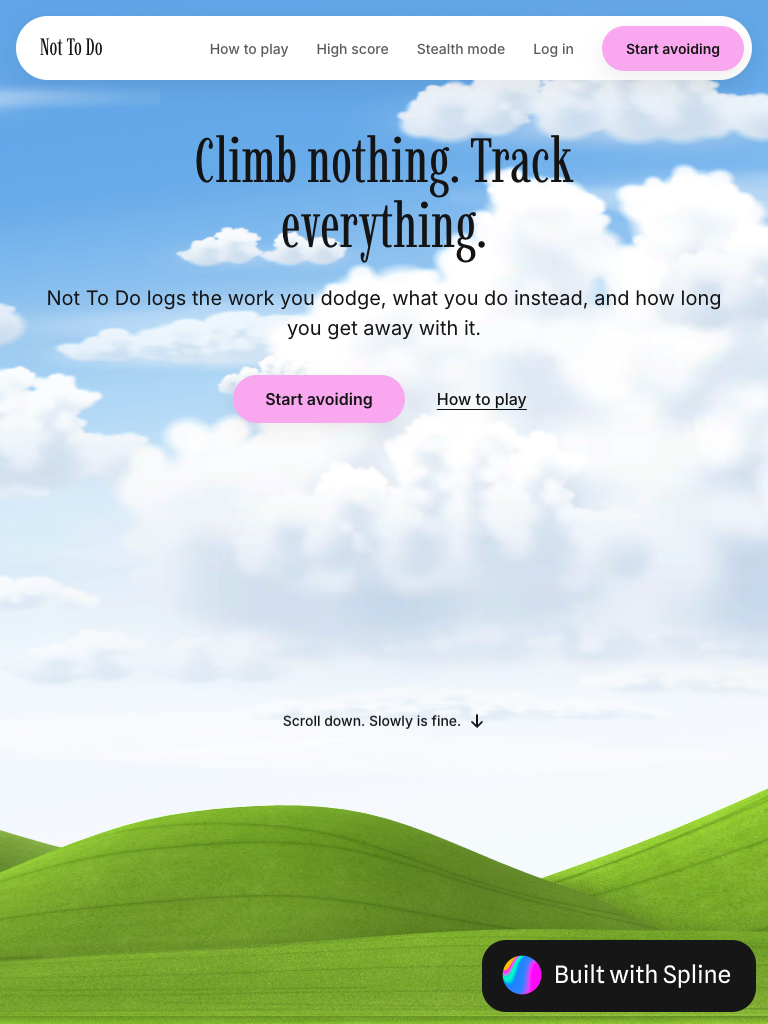
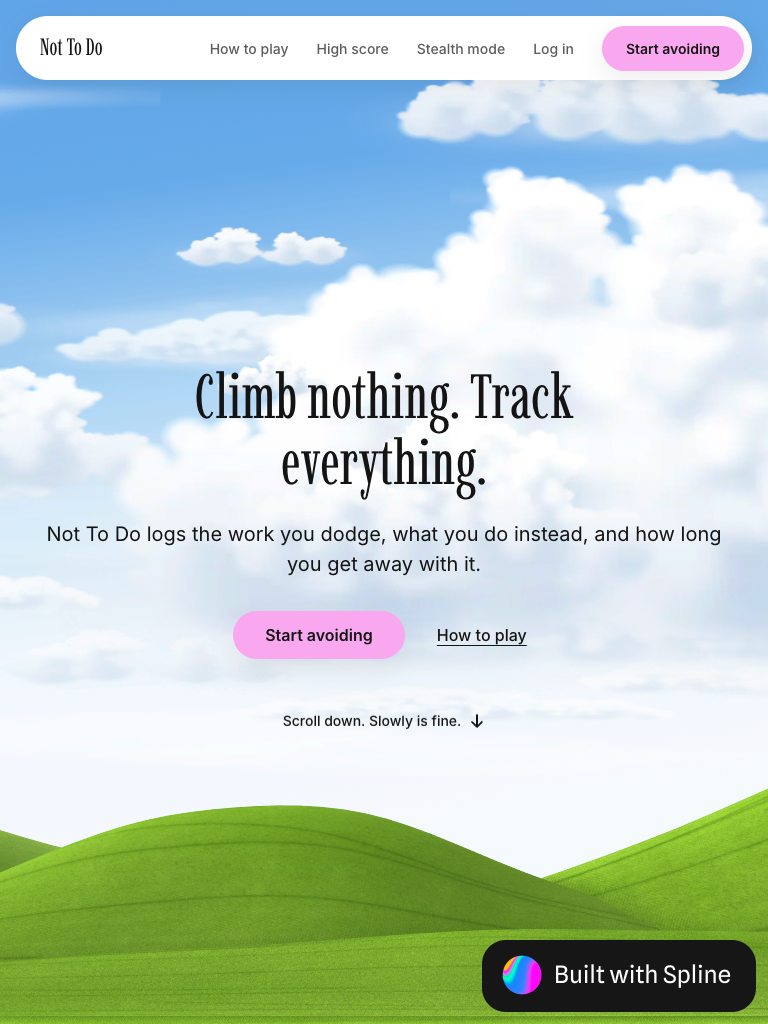
Hero centered, scroll cue 80px from bottom, links to unbuilt sections not clickable

diff --git a/index.html b/index.html
@@ -28,23 +28,25 @@
 
     <a class="skip-intro" href="#hero">Skip intro</a>
 
+    <!-- Links to sections that are not built yet have data-href instead of href, so they are not clickable.
+         When a section is built, rename data-href back to href. -->
     <!-- Floating header. Hidden (and inert) during the intro: intro.js shows it when the hero is reached. Without JS it is a plain visible bar. -->
     <header class="nav" id="nav">
       <nav class="nav__pill" aria-label="Main">
         <a class="nav__wordmark" href="#hero">Not To Do</a>
         <ul class="nav__links" role="list">
-          <li><a class="nav__link" href="#how-to-play">How to play</a></li>
-          <li><a class="nav__link" href="#high-score">High score</a></li>
-          <li><a class="nav__link" href="#stealth">Stealth mode</a></li>
+          <li><a class="nav__link" data-href="#how-to-play">How to play</a></li>
+          <li><a class="nav__link" data-href="#high-score">High score</a></li>
+          <li><a class="nav__link" data-href="#stealth">Stealth mode</a></li>
           <li><a class="nav__link" href="#login">Log in</a></li>
         </ul>
         <a class="button nav__cta" href="#signup">Start avoiding</a>
         <button class="nav__menu-button" type="button" aria-expanded="false" aria-controls="nav-panel">Menu</button>
         <div class="nav__panel" id="nav-panel" hidden>
           <ul class="nav__panel-links" role="list">
-            <li><a class="nav__link" href="#how-to-play">How to play</a></li>
-            <li><a class="nav__link" href="#high-score">High score</a></li>
-            <li><a class="nav__link" href="#stealth">Stealth mode</a></li>
+            <li><a class="nav__link" data-href="#how-to-play">How to play</a></li>
+            <li><a class="nav__link" data-href="#high-score">High score</a></li>
+            <li><a class="nav__link" data-href="#stealth">Stealth mode</a></li>
             <li><a class="nav__link" href="#login">Log in</a></li>
           </ul>
         </div>
@@ -86,10 +88,10 @@
           <p class="hero__sub hero__item">Not To Do logs the work you dodge, what you do instead, and how long you get away with it.</p>
           <div class="hero__actions hero__item">
             <a class="button" href="#signup">Start avoiding</a>
-            <a class="text-link" href="#how-to-play">How to play</a>
+            <a class="text-link" data-href="#how-to-play">How to play</a>
           </div>
         </div>
-        <a class="scroll-cue hero__cue hero__item" href="#how-to-play">
+        <a class="scroll-cue hero__cue hero__item" data-href="#how-to-play">
           <span class="scroll-cue__inner">
             Scroll down. Slowly is fine.
             <svg viewBox="0 0 16 16" aria-hidden="true" focusable="false"><path d="M8 2v12M3 9l5 5 5-5" /></svg>

diff --git a/src/styles/sections/hero.css b/src/styles/sections/hero.css
@@ -1,5 +1,5 @@
 /* Screen 1 · Hero. Headline, sub, buttons, and the scroll cue at the bottom.
-   The text sits in the sky, above the hills: it starts below the header and the cue stays above the hill line. */
+   The text block is centered in the screen; the cue sits near the bottom edge. */
 .hero {
   position: relative;
   min-height: 100vh;
@@ -7,7 +7,9 @@
   display: flex;
   flex-direction: column;
   align-items: center;
-  padding: var(--offset-hero-top) var(--space-4) var(--space-9);
+  justify-content: center;
+  /* same room above and below, so the text block sits in the middle of the screen (and clears the header) */
+  padding: var(--offset-nav) var(--space-4);
   text-align: center;
 }
 .hero__content {
@@ -31,12 +33,9 @@
   position: absolute;
   left: 0;
   right: 0;
-  bottom: var(--offset-hero-cue-phone);
+  bottom: var(--offset-hero-cue);
   width: fit-content;
   margin-inline: auto;
-}
-@media (min-width: 768px) {
-  .hero__cue { bottom: var(--offset-hero-cue); }
 }
 
 /* Entrance. hero.js splits the headline into words and puts the state classes on .hero:

diff --git a/src/styles/tokens.css b/src/styles/tokens.css
@@ -124,8 +124,7 @@
   --size-nav-height: 64px;                 /* header pill height */
   --offset-nav: calc(var(--offset-nav-top) + var(--size-nav-height) + var(--space-4)); /* room left above a section when a header link scrolls to it */
   --offset-hero-top: calc(var(--offset-nav) + var(--space-6));  /* hero text starts below the header */
-  --offset-hero-cue: 28vh;                 /* hero scroll cue distance from the bottom, kept above the hills (tablet and up) */
-  --offset-hero-cue-phone: 40vh;           /* same on phones, where the hills start higher on the screen */
+  --offset-hero-cue: 80px;                 /* hero scroll cue distance from the bottom edge of the screen (set by Oksana; between the 64 and 96 steps) */
   --length-intro-scroll: 440vh;            /* scroll distance while the intro is pinned (4 parts x 110vh) */
   --shift-intro-part: 30px;                /* how far a part rises as it is revealed */
   --blur-intro-part: 8px;                  /* blur that clears during the reveal */

diff --git a/src/nav.js b/src/nav.js
@@ -16,7 +16,7 @@ export function initNav() {
     const open = () => {
       panel.hidden = false;
       button.setAttribute('aria-expanded', 'true');
-      const first = panel.querySelector('a');
+      const first = panel.querySelector('a[href]');
       if (first) first.focus();
     };
     const close = ({ focusButton = true } = {}) => {
@@ -29,7 +29,7 @@ export function initNav() {
     // Link in the panel: close, let the browser jump, then put focus back on the Menu button
     // (the jump itself would otherwise drop focus to the page).
     panel.addEventListener('click', (event) => {
-      if (!event.target.closest('a')) return;
+      if (!event.target.closest('a[href]')) return;
       close({ focusButton: false });
       requestAnimationFrame(() => button.focus({ preventScroll: true }));
     });

diff --git a/src/styles/sections/nav.css b/src/styles/sections/nav.css
@@ -49,7 +49,7 @@
   white-space: nowrap;
   transition: color var(--duration-fast) var(--ease-standard);
 }
-.nav__link:hover, .nav__link[aria-current] { color: var(--color-nav-link-current); }
+.nav__link[href]:hover, .nav__link[aria-current] { color: var(--color-nav-link-current); }
 .nav__link[aria-current] { text-decoration: underline; text-underline-offset: var(--space-1); }
 .nav__cta { padding-inline: var(--space-5); font-size: var(--text-label); white-space: nowrap; }
 .nav__menu-button {

diff --git a/src/styles/base.css b/src/styles/base.css
@@ -128,3 +128,7 @@ main { position: relative; z-index: var(--z-content); }
   text-decoration: underline;
   text-underline-offset: var(--space-1);
 }
+
+/* Placeholder links (data-href, no href): the section they point to is not built yet.
+   Same look, but not clickable, so no pointer cursor. */
+a:not([href]) { cursor: default; }

diff --git a/design/decisions.md b/design/decisions.md
@@ -138,3 +138,8 @@
 - Skip intro keeps its own hiding rules; the new .visually-hidden helper is used by the section H2s only.
 - Contrast, measured from the screenshots (AA needs 4.5:1 under 24px, 3:1 for the H1): H1 7.0:1 lowest (desktop), 7.2:1 (phone, static image); sub 7.4:1; How to play link 8.6:1; scroll cue 9.5:1; nav links #5c5c5c on the white pill 6.7:1; button text on pink 10.4:1. --color-text-muted passes, no change.
 - Tokens added: --color-nav-link, --color-nav-link-current, --color-nav-surface, --measure-sub, --offset-nav-top, --size-nav-height, --offset-nav, --offset-hero-top, --offset-hero-cue, --offset-hero-cue-phone, --stagger-hero-step, --duration-nav. Renamed: --duration-hero-cta / --shift-hero-cta / --scale-hero-cta / --blur-hero-cta became --duration-hero-item / --shift-hero-item / --scale-hero-item / --blur-hero-item. Removed: --delay-hero-cta (replaced by the step).
+
+## 2026-11-17 · Hero: centered, cue at the bottom, links to unbuilt sections off
+- Links to sections that are not built yet (How to play, High score, Stealth mode in the header and the phone menu, the hero's How to play link and its scroll cue) have data-href instead of href: not clickable, not in the Tab order, not announced as links. Same look, default cursor. Rename data-href back to href when a section is built. Requested by Oksana.
+- Hero text block centered in the screen (same room above and below, which also clears the header). Requested by Oksana.
+- Hero scroll cue 80px from the bottom edge (--offset-hero-cue, between the 64 and 96 steps). Requested by Oksana. It now sits on the hills: contrast 3.4:1 (desktop) and 3.3:1 (phone) at the darkest grass stripe, below the 4.5:1 AA minimum for 14px text. Fix pending Oksana's choice. On phones the button row also sits on the first hill edge (5.3:1 there, passes).
